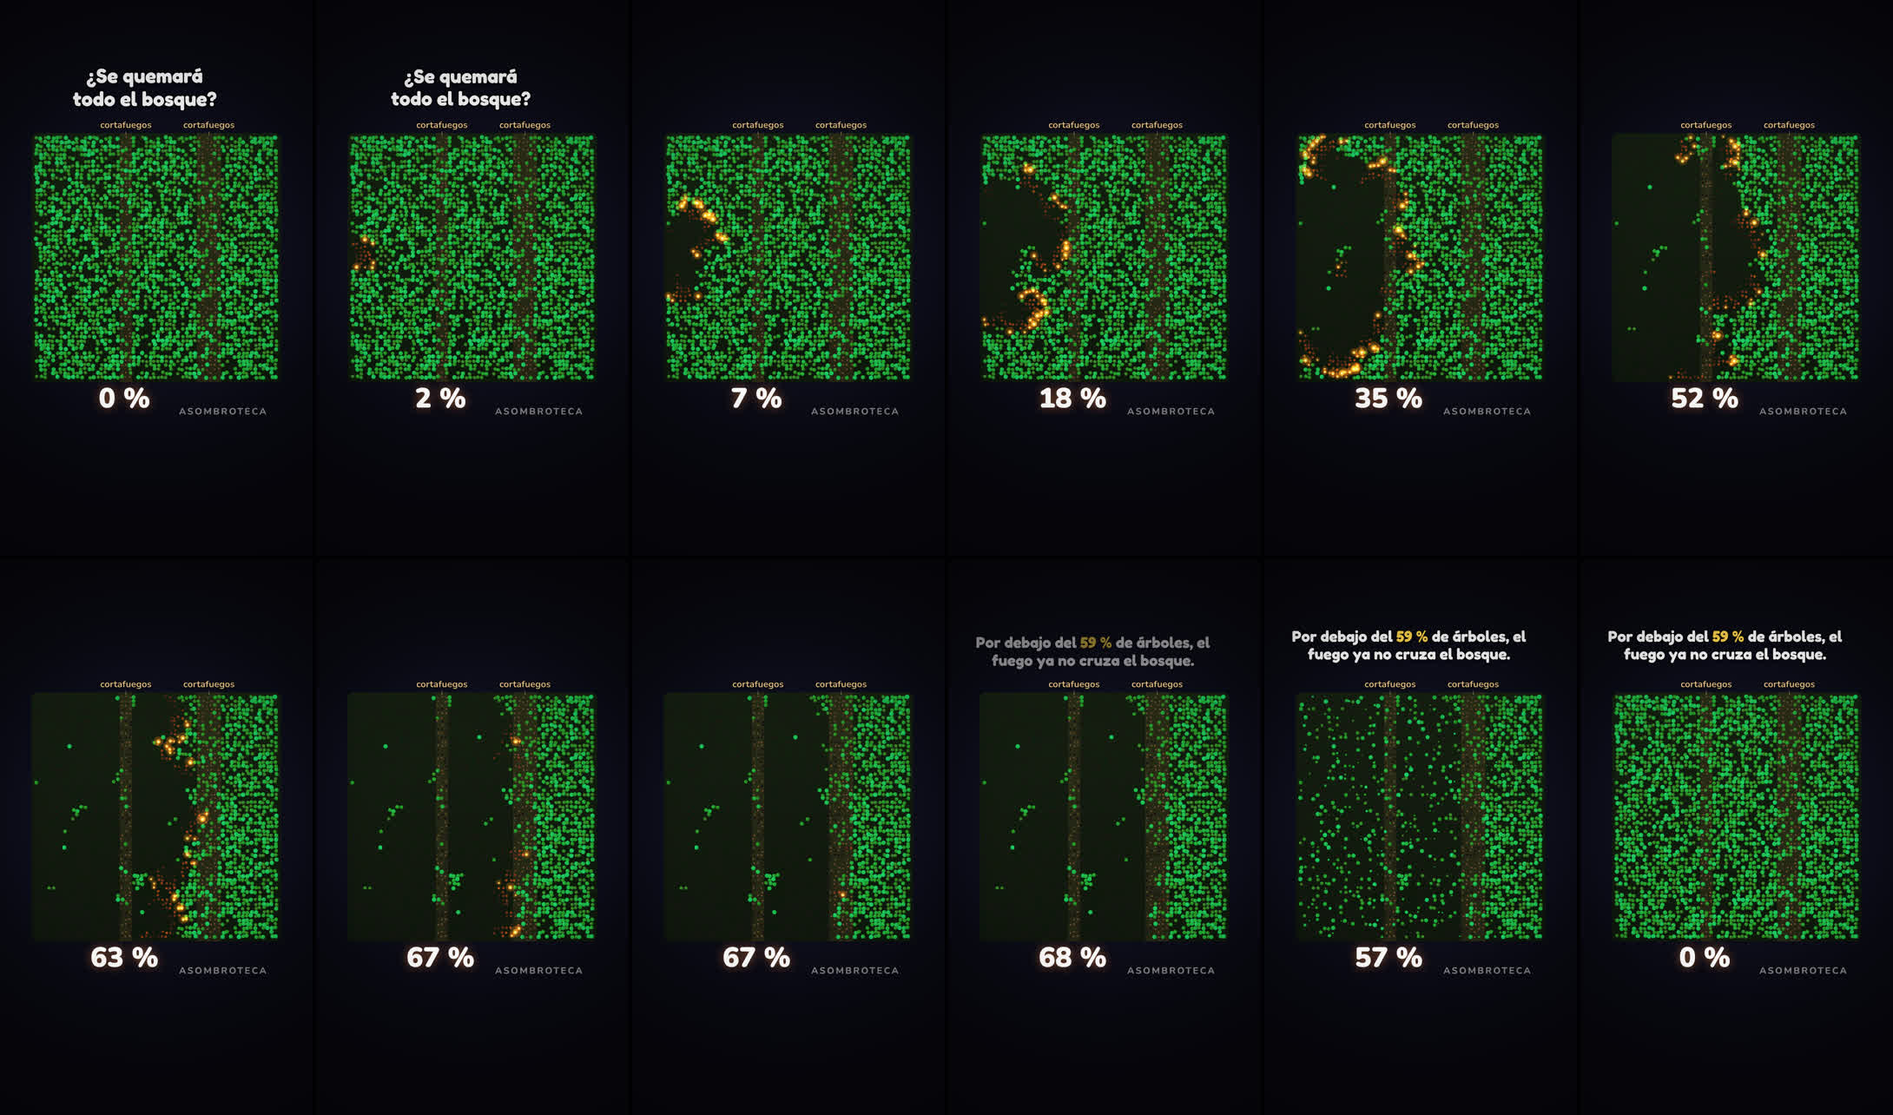
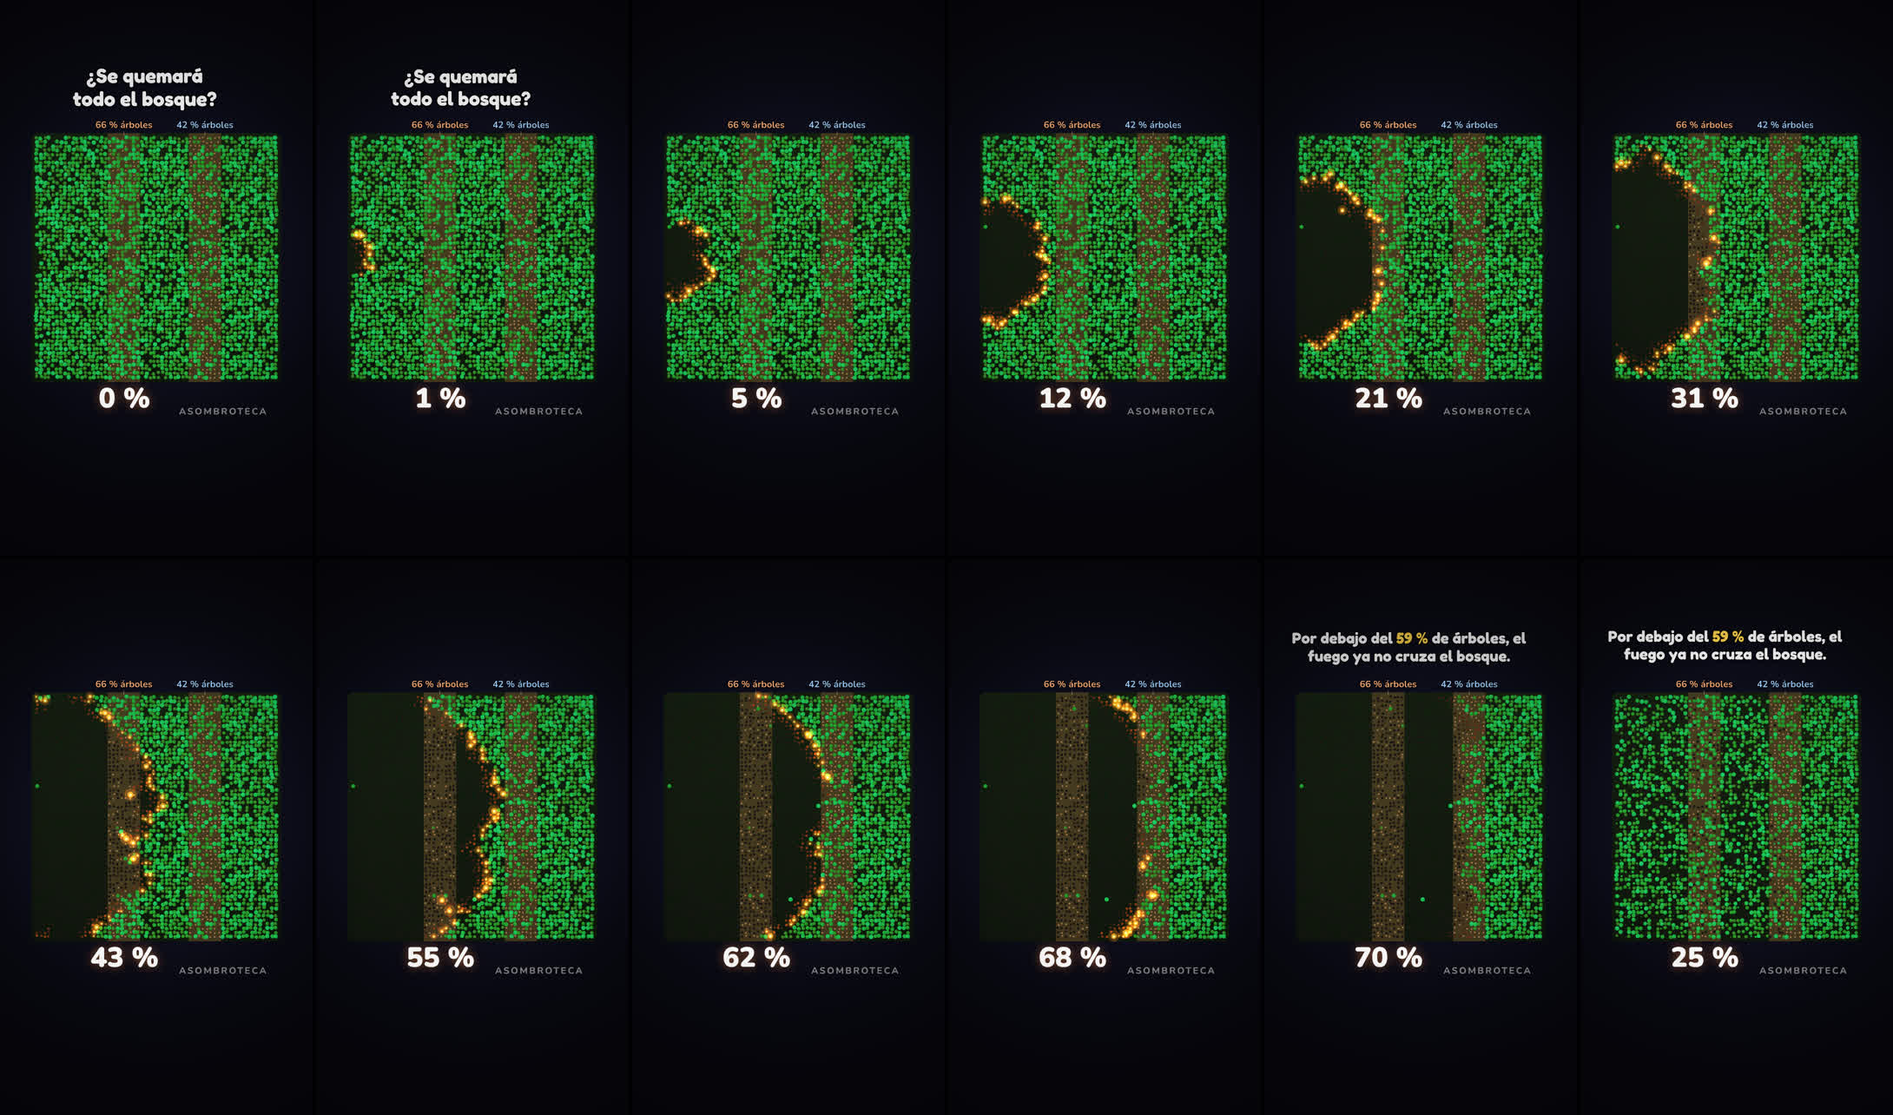
SIN_VOZ 2.2 (en curso): péndulos en 3D (pendulum wave clásico), bosque con cortafuegos de 66 % y 42 % y sin tiempo muerto, π vuelve a «?» en el empalme
Claude-Session: https://claude.ai/code/session_01KohciLZeBRd7rwhuESxzdC

diff --git a/PLANTILLA_ASOMBROTECA_SIN_VOZ/ejemplos/SIM_PENDULOS_REEL/04_CODIGO/js/episodio.js b/PLANTILLA_ASOMBROTECA_SIN_VOZ/ejemplos/SIM_PENDULOS_REEL/04_CODIGO/js/episodio.js
@@ -1,44 +1,71 @@
 // =====================================================================================================
 // episodio.js — «¿Volverán a alinearse?» · FORMATO: PÉNDULOS · Plantilla Asombroteca SIN_VOZ 2.2
-// Onda de péndulos (Berg 1991): 15 péndulos cuelgan de una barra fija sostenida por dos postes. En γ = 34 s el péndulo n completa
-// K + n oscilaciones (T_n = γ / (K + n), L_n = g·(T_n / 2π)²), así que se desfasan —serpiente, ondas, caos aparente— y a los 34 s
-// vuelven a estar alineados. A la derecha, el número de oscilaciones de cada uno. Sonido: cada paso por la vertical suena con una nota
-// según el péndulo (en la realineación, todas a la vez: un acorde).
+// Onda de péndulos clásica (Berg 1991): 15 péndulos cuelgan lado a lado de una barra horizontal, cada uno de su propio par de anclajes
+// (suspensión en V: solo oscilan perpendiculares a la barra). En γ = 34 s el péndulo n completa K + n oscilaciones
+// (T_n = γ / (K + n), L_n = g·(T_n / 2π)²): se desfasan —serpiente, ondas, caos aparente— y a los 34 s vuelven a alinearse.
+// Vista 3D en perspectiva, un poco desde arriba (cámara fija), con sombras sobre la base. Solo el contador de segundos.
+// Sonido: cada paso por la vertical suena con una nota según el péndulo (en la realineación, un acorde).
 // =====================================================================================================
 (function () {
  const R = window.REEL, PL = window.PLANTILLA, P = PL.P;
  const { TL, cl, sm, E, lerp, win, TAU } = R, D = TL.dur;
 
  // ---------- 1 · SIMULACIÓN ----------
- const S = SIM.pendulos({ n: 15, gamma: TL.param.gamma ?? 34, K: TL.param.K ?? 14, theta0: 0.33, extra: 4 });
- const PIV = { x: 500, y: 420 }, NB = S.n, PX = 640 / S.L[0];   // escala: el más largo mide 640 px
- const ROT = []; { let yl = -1e9; for (let k = 0; k < NB; k++) { const y = S.L[k] * PX; ROT[k] = Math.abs(yl - y) >= 36; if (ROT[k]) yl = y; } } // rótulos sin encimarse
+ const TH0 = 0.36;
+ const S = SIM.pendulos({ n: 15, gamma: TL.param.gamma ?? 34, K: TL.param.K ?? 36, theta0: TH0, extra: 4 });
+ const NB = S.n, ZV = 0.89 / S.L[0], LV = (k) => S.L[k] * ZV, L0 = LV(0);   // escala visual (la física, T y L, no cambia)
 
+ // ---------- 2 · ESCENA 3D (metros) ----------
+ // eje X: a lo largo de la barra (péndulo k) · eje Z: dirección de oscilación · eje Y: arriba. La barra está en Y = 0.
+ const SP = 0.085, XK = (k) => (k - (NB - 1) / 2) * SP, BH = 0.028;          // separación entre péndulos y media abertura de la V
+ const YB = -(L0 + 0.1), BX = XK(0) - 0.12, BX1 = XK(NB - 1) + 0.12, BZ = 0.4;  // base: tabla bajo los péndulos (los postes se apoyan en ella)
+ const CAM = { yaw: -0.55, pitch: 0.55, d: 3.2, F: 1680, cx: 532, cy: 765, c: [0, -0.5, 0] };
+ const ca = Math.cos(CAM.yaw), sa = Math.sin(CAM.yaw), cp = Math.cos(CAM.pitch), sp = Math.sin(CAM.pitch);
+ const pr = (x, y, z) => { x -= CAM.c[0]; y -= CAM.c[1]; z -= CAM.c[2];
+  const x1 = x * ca + z * sa, z1 = -x * sa + z * ca, y2 = y * cp + z1 * sp, z2 = z1 * cp - y * sp, s = CAM.F / (CAM.d + z2);
+  return [CAM.cx + x1 * s, CAM.cy - y2 * s, s, z2]; };
  const COL = Array.from({ length: NB }, (_, k) => `hsl(${(190 + k * 22) % 360},95%,62%)`);
- const bob = (k, t) => { const L = S.L[k] * PX, th = S.theta(k, t); return [PIV.x + L * Math.sin(th), PIV.y + L * Math.cos(th)]; };
+ const bob3 = (k, t) => { const th = S.theta(k, t), L = LV(k); return [XK(k), -L * Math.cos(th), L * Math.sin(th)]; };
+ window.PEND_INFO = { L: S.L, T: S.T, esquinas: [[BX, 0, 0], [BX1, 0, 0], [BX, YB, -BZ], [BX1, YB, -BZ], [BX, YB, BZ], [BX1, YB, BZ]].map((p) => pr(...p).slice(0, 2).map(Math.round)) };
 
- // ---------- 2 · DIBUJO ----------
+ const poly = (ctx, pts) => { ctx.beginPath(); pts.forEach(([x, y, z], i) => { const [a, b] = pr(x, y, z); if (i) ctx.lineTo(a, b); else ctx.moveTo(a, b); }); ctx.closePath(); };
+ const line = (ctx, p, q) => { const [a, b] = pr(...p), [c, d] = pr(...q); ctx.moveTo(a, b); ctx.lineTo(c, d); };
+
+ // ---------- 3 · DIBUJO ----------
  function draw(ctx, t) {
-  ctx.save();
-  // estructura fija: barra superior sostenida por dos postes que llegan al suelo (los hilos cuelgan de ella)
-  const base = 1160; ctx.strokeStyle = 'rgba(200,210,235,0.5)'; ctx.lineWidth = 6; ctx.lineCap = 'round'; ctx.beginPath(); ctx.moveTo(170, PIV.y); ctx.lineTo(830, PIV.y); ctx.moveTo(190, PIV.y); ctx.lineTo(190, base); ctx.moveTo(810, PIV.y); ctx.lineTo(810, base); ctx.moveTo(140, base); ctx.lineTo(860, base); ctx.stroke(); ctx.fillStyle = 'rgba(200,210,235,0.12)'; ctx.fillRect(140, base, 720, 10);
-  ctx.fillStyle = 'rgba(200,210,235,0.7)'; ctx.beginPath(); ctx.arc(PIV.x, PIV.y, 9, 0, TAU); ctx.fill();
-  // estelas suaves (0,25 s) y péndulos
-  for (let k = NB - 1; k >= 0; k--) { const c = COL[k];
-   ctx.strokeStyle = c; for (let q = 1; q <= 6; q++) { const [x, y] = bob(k, t - q * 0.04); ctx.globalAlpha = 0.12 * (1 - q / 7); ctx.fillStyle = c; ctx.beginPath(); ctx.arc(x, y, 15, 0, TAU); ctx.fill(); }
-   ctx.globalAlpha = 1; const [x, y] = bob(k, t); ctx.strokeStyle = 'rgba(230,235,255,0.35)'; ctx.lineWidth = 1.5; ctx.beginPath(); ctx.moveTo(PIV.x, PIV.y); ctx.lineTo(x, y); ctx.stroke();
-   const g = ctx.createRadialGradient(x - 5, y - 5, 2, x, y, 17); g.addColorStop(0, '#ffffff'); g.addColorStop(0.35, c); g.addColorStop(1, c); ctx.fillStyle = g; ctx.beginPath(); ctx.arc(x, y, 16, 0, TAU); ctx.fill();
-   // oscilaciones completas de cada péndulo, a la derecha de su altura de reposo
-   if (ROT[k]) R.chico(ctx, String(S.oscilaciones(k, t)), 905, PIV.y + S.L[k] * PX + 11, { px: 32, col: c, kind: 'eje', align: 'right' }); }
-  // al realinearse, un destello sobre la línea vertical
-  const al = Math.exp(-Math.pow((t - S.gamma) / 0.35, 2)); if (al > 0.02) { ctx.globalAlpha = al; ctx.strokeStyle = '#ffd54a'; ctx.lineWidth = 4; ctx.setLineDash([10, 10]); ctx.beginPath(); ctx.moveTo(PIV.x + S.L[NB - 1] * PX * Math.sin(0.33), PIV.y + S.L[NB - 1] * PX * 0.9); ctx.lineTo(PIV.x + S.L[0] * PX * Math.sin(0.33), PIV.y + S.L[0] * PX * 1.02); ctx.stroke(); ctx.setLineDash([]); P.glow(ctx, 540, 860, 400, '255,213,74', 0.2 * al); }
+  ctx.save(); ctx.lineCap = 'round'; ctx.lineJoin = 'round';
+  // base de madera oscura (tabla con canto) y sombras de las bolas sobre ella (luz cenital)
+  ctx.fillStyle = '#1a1f33'; poly(ctx, [[BX, YB, -BZ], [BX1, YB, -BZ], [BX1, YB, BZ], [BX, YB, BZ]]); ctx.fill();
+  ctx.strokeStyle = 'rgba(170,185,230,0.35)'; ctx.lineWidth = 2; ctx.stroke();
+  ctx.fillStyle = '#121626'; poly(ctx, [[BX, YB, BZ], [BX1, YB, BZ], [BX1, YB - 0.04, BZ], [BX, YB - 0.04, BZ]]); ctx.fill();
+  ctx.fillStyle = '#0f1322'; poly(ctx, [[BX, YB, -BZ], [BX, YB, BZ], [BX, YB - 0.04, BZ], [BX, YB - 0.04, -BZ]]); ctx.fill();
+  for (let k = 0; k < NB; k++) { const [x, , z] = bob3(k, t), [a, b, s] = pr(x, YB, z); ctx.fillStyle = 'rgba(0,0,0,0.45)'; ctx.beginPath(); ctx.ellipse(a, b, 0.038 * s, 0.017 * s, 0, 0, TAU); ctx.fill(); }
+  // marco: dos postes que se apoyan en la base y la barra horizontal arriba
+  ctx.strokeStyle = 'rgba(205,215,240,0.75)'; ctx.lineWidth = 7; ctx.beginPath(); line(ctx, [BX, YB, 0], [BX, 0.02, 0]); line(ctx, [BX1, YB, 0], [BX1, 0.02, 0]); ctx.stroke();
+  ctx.lineWidth = 9; ctx.beginPath(); line(ctx, [BX, 0.02, 0], [BX1, 0.02, 0]); ctx.stroke();
+  // al realinearse, un destello a lo largo de la fila
+  const al = Math.exp(-Math.pow((t - S.gamma) / 0.4, 2));
+  // péndulos, de atrás hacia delante (orden por profundidad)
+  const ord = Array.from({ length: NB }, (_, k) => k).map((k) => [k, pr(...bob3(k, t))[3]]).sort((a, b) => b[1] - a[1]);
+  for (const [k] of ord) { const c = COL[k], p = bob3(k, t), [bx, by, s] = pr(...p);
+   // estela corta
+   for (let q = 1; q <= 5; q++) { const [ex, ey, es] = pr(...bob3(k, t - q * 0.035)); ctx.globalAlpha = 0.13 * (1 - q / 6); ctx.fillStyle = c; ctx.beginPath(); ctx.arc(ex, ey, 0.034 * es, 0, TAU); ctx.fill(); }
+   ctx.globalAlpha = 1;
+   // hilos en V desde sus dos anclajes en la barra
+   ctx.strokeStyle = 'rgba(230,235,255,0.45)'; ctx.lineWidth = 1.4; ctx.beginPath(); line(ctx, [XK(k) - BH, 0, 0], p); line(ctx, [XK(k) + BH, 0, 0], p); ctx.stroke();
+   ctx.fillStyle = 'rgba(220,228,250,0.9)'; for (const dx of [-BH, BH]) { const [a, b] = pr(XK(k) + dx, 0, 0); ctx.beginPath(); ctx.arc(a, b, 3, 0, TAU); ctx.fill(); }
+   // bola
+   const r = 0.034 * s, g = ctx.createRadialGradient(bx - r * 0.35, by - r * 0.35, r * 0.1, bx, by, r); g.addColorStop(0, '#ffffff'); g.addColorStop(0.35, c); g.addColorStop(1, c);
+   if (al > 0.02) P.glow(ctx, bx, by, r * 3.2, '255,213,74', 0.5 * al);
+   ctx.fillStyle = g; ctx.beginPath(); ctx.arc(bx, by, r, 0, TAU); ctx.fill(); }
+  if (al > 0.02) { ctx.globalAlpha = al * 0.8; ctx.strokeStyle = '#ffd54a'; ctx.lineWidth = 3; ctx.setLineDash([10, 10]); ctx.beginPath(); for (let k = 0; k < NB; k++) { const [a, b] = pr(...bob3(k, S.gamma)); if (k) ctx.lineTo(a, b); else ctx.moveTo(a, b); } ctx.stroke(); ctx.setLineDash([]); }
   ctx.restore();
-  R.contador(ctx, t, (Math.round(t * 10) / 10).toFixed(1).replace('.', ','), { x: 470, y: 1300, px: 104, sufijo: ' s', glow: '120,200,255' });
+  R.contador(ctx, t, (Math.round(t * 10) / 10).toFixed(1).replace('.', ','), { x: 420, y: 1345, px: 100, sufijo: ' s', glow: '120,200,255' });
   R.pregunta(ctx, t, { y: 300, px: 72 }); R.frase(ctx, t, { y: 300, px: 58 });
  }
 
- // ---------- 3 · SONIDO: cada paso por la vertical ----------
- const EVP = S.cruces.filter((c) => c.t < D).map((c) => ({ t: c.t, p: 5 + c.n * 1, v: 0.55, pan: c.sentido * 0.3 }));
+ // ---------- 4 · SONIDO: cada paso por la vertical ----------
+ const EVP = S.cruces.filter((c) => c.t < D).map((c) => ({ t: c.t, p: 5 + c.n * 1, v: 0.55, pan: (c.n / (NB - 1) - 0.5) * 0.8 }));
  function sound(k) { R.asmr(k, EVP, { voz: 'cristal', maxBin: 3, bin: 1 / 50, dens: 30, gain: 0.8 }); R.asmr(k, [{ t: S.gamma, p: 15, v: 0.9 }, { t: S.gamma, p: 17, v: 0.7 }, { t: S.gamma, p: 19, v: 0.7 }], { voz: 'campana', maxBin: 3, gain: 0.8 }); }
 
  const EP = R.make({ draw, sound, eventos: () => EVP.map((e) => e.t).concat([S.gamma]) });

diff --git a/PLANTILLA_ASOMBROTECA_SIN_VOZ/ejemplos/SIM_INCENDIO_REEL/04_CODIGO/js/episodio.js b/PLANTILLA_ASOMBROTECA_SIN_VOZ/ejemplos/SIM_INCENDIO_REEL/04_CODIGO/js/episodio.js
@@ -1,8 +1,8 @@
 // =====================================================================================================
 // episodio.js — «¿Se quemará todo el bosque?» · FORMATO: INCENDIO · Plantilla Asombroteca SIN_VOZ 2.2
 // Bosque visto desde arriba (60 × 60 árboles). El fuego pasa de un árbol a sus 4 vecinos con un retraso al azar (SIM.incendio:
-// percolación de sitios, precalculada con H.rng). Dos franjas de cortafuegos (árboles cortados → tocones) dejan solo ~32 % de árboles,
-// por debajo del umbral de percolación (59 %): la estrecha puede dejar pasar el fuego; la ancha lo detiene. Al final el bosque rebrota.
+// percolación de sitios, precalculada con H.rng). Dos franjas de cortafuegos iguales (árboles cortados → tocones): la primera deja ~66 % de
+// árboles, por encima del umbral de percolación (59 %), y el fuego la cruza; la segunda deja ~42 %, por debajo, y lo detiene. Al final rebrota.
 // Sonido: chasquido en cada árbol que prende, rugido cuyo volumen sigue a los árboles que arden, siseo al apagarse, gotas al rebrotar.
 // =====================================================================================================
 (function () {
@@ -10,14 +10,21 @@
  const { TL, cl, sm, E, lerp, win, TAU } = R, D = TL.dur;
 
  // ---------- 1 · SIMULACIÓN ----------
- const CO = 60, RO = 60, CS = 14, X0 = 120, Y0 = 470, DEN = TL.param.densidad ?? 0.7, CORTE = TL.param.corte ?? 0.55;
- const F1 = [21, 23], F2 = [40, 45];   // franjas de cortafuegos (columnas)
+ const CO = 60, RO = 60, CS = 14, X0 = 120, Y0 = 470, DEN = TL.param.densidad ?? 0.86, Q1 = TL.param.queda1 ?? 0.66, Q2 = TL.param.queda2 ?? 0.44;
+ const F1 = [18, 25], F2 = [38, 45];   // franjas de cortafuegos (columnas), las dos de 8 columnas
  const enFranja = (c) => (c >= F1[0] && c <= F1[1]) || (c >= F2[0] && c <= F2[1]);
- const S = SIM.incendio({ cols: CO, rows: RO, densidad: () => DEN, corte: (c, r, rng) => enFranja(c) && rng() < CORTE, focos: [27, 28, 29, 30, 31, 32].map((r) => [0, r]), dMin: 0.14, dMax: 0.34, arde: 1.2, seed: TL.semilla });
- const T_FIN = S.escala((TL.param.tFuego ?? 33.5) / S.tFin), T_APAGA = T_FIN + S.arde, T_BROTE = D - 3.2;
+ const S = SIM.incendio({ cols: CO, rows: RO, densidad: () => DEN, corte: (c, r, rng) => (c >= F1[0] && c <= F1[1]) ? rng() < 1 - Q1 / DEN : (c >= F2[0] && c <= F2[1]) ? rng() < 1 - Q2 / DEN : false, focos: [27, 28, 29, 30, 31, 32].map((r) => [0, r]), dMin: 0.14, dMax: 0.34, arde: 1.2, seed: TL.semilla });
+ // sin tiempo muerto: del 95 al 98 % de árboles el fuego va 2,5 veces más rápido y el último 2 %, 8 veces (remapeo monótono:
+ // el orden de ignición no cambia) y, en cuanto se apaga el último, entra la frase
+ { const n = S.orden.length, tq = (f) => S.tIgn[S.orden[Math.floor(f * (n - 1))]], t95 = tq(0.95), t98 = tq(0.98);
+   const w = (t) => (t <= t95 ? t : t <= t98 ? t95 + (t - t95) * 0.4 : t95 + (t98 - t95) * 0.4 + (t - t98) * 0.12);
+   for (const i of S.orden) S.tIgn[i] = w(S.tIgn[i]); S.tFin = S.tIgn[S.orden[n - 1]]; }
+ const T_FIN = S.escala((TL.tFrase - S.arde - 0.4) / S.tFin), T_APAGA = T_FIN + S.arde, T_BROTE = D - 3.2;
+ const densF = (F) => { let a = 0; for (let r = 0; r < RO; r++) for (let c = F[0]; c <= F[1]; c++) if (S.arbol[r * CO + c] === 1) a++; return Math.round(100 * a / (RO * (F[1] - F[0] + 1))); };
+ const DF = [densF(F1), densF(F2)];   // % real de árboles que quedan en cada cortafuegos (sale en su etiqueta)
  const N_ARB = S.arbol.reduce((a, v) => a + (v === 1 ? 1 : 0), 0), IGN = S.orden.map((i) => S.tIgn[i]);
  const cuantos = (t) => { let lo = 0, hi = IGN.length; while (lo < hi) { const m = (lo + hi) >> 1; if (IGN[m] <= t) lo = m + 1; else hi = m; } return lo; };
- const maxCol = S.orden.reduce((m, i) => Math.max(m, i % CO), 0); window.INCENDIO_INFO = { maxCol, quemados: S.orden.length, N_ARB, T_FIN, cruza1: maxCol > F1[1], cruza2: maxCol > F2[1] };
+ const maxCol = S.orden.reduce((m, i) => Math.max(m, i % CO), 0); window.INCENDIO_INFO = { maxCol, quemados: S.orden.length, N_ARB, T_FIN, cruza1: maxCol > F1[1], cruza2: maxCol > F2[1], DF };
  const RG = H.rng(9), TONO = Float32Array.from({ length: CO * RO }, () => RG()), BROTE = Float32Array.from({ length: CO * RO }, () => RG());
  const JX = Float32Array.from({ length: CO * RO }, () => (RG() - 0.5) * 6), JY = Float32Array.from({ length: CO * RO }, () => (RG() - 0.5) * 6);   // copas algo irregulares (aspecto natural)
  const pos = (i) => [X0 + (i % CO + 0.5) * CS + JX[i], Y0 + (((i / CO) | 0) + 0.5) * CS + JY[i]];
@@ -27,11 +34,11 @@
   // suelo del bosque (los árboles se apoyan en él: vista cenital)
   ctx.save(); const g = ctx.createLinearGradient(0, Y0, 0, Y0 + RO * CS); g.addColorStop(0, '#13200f'); g.addColorStop(1, '#0d170b'); ctx.fillStyle = g; ctx.beginPath(); ctx.roundRect(X0 - 10, Y0 - 10, CO * CS + 20, RO * CS + 20, 18); ctx.fill();
   // franjas de cortafuegos (tierra desnuda)
-  ctx.fillStyle = 'rgba(120,90,50,0.22)'; for (const [a, b] of [F1, F2]) ctx.fillRect(X0 + a * CS, Y0 - 10, (b - a + 1) * CS, RO * CS + 20);
+  ctx.fillStyle = 'rgba(140,100,55,0.42)'; for (const [a, b] of [F1, F2]) ctx.fillRect(X0 + a * CS, Y0 - 10, (b - a + 1) * CS, RO * CS + 20);
   const brote = (i) => t > T_BROTE + BROTE[i] * 1.6;   // al final el bosque rebrota (empalme con el inicio)
   ctx.globalCompositeOperation = 'source-over';
   for (let i = 0; i < CO * RO; i++) { const a = S.arbol[i]; if (!a) continue; const [x, y] = pos(i);
-   if (a === 2) { ctx.fillStyle = '#7a5a36'; ctx.beginPath(); ctx.arc(x, y, 3.2, 0, TAU); ctx.fill(); ctx.strokeStyle = 'rgba(40,25,12,0.8)'; ctx.lineWidth = 1; ctx.stroke(); continue; }   // tocón
+   if (a === 2) { ctx.fillStyle = '#a7804f'; ctx.beginPath(); ctx.arc(x, y, 3.6, 0, TAU); ctx.fill(); ctx.strokeStyle = 'rgba(40,25,12,0.8)'; ctx.lineWidth = 1; ctx.stroke(); continue; }   // tocón
    const ti = S.tIgn[i], q = t - ti;
    if (q < 0 || brote(i)) { const s = brote(i) ? E.out(cl((t - T_BROTE - BROTE[i] * 1.6) / 0.4)) : 1; ctx.fillStyle = `hsl(${105 + TONO[i] * 40},${55 + TONO[i] * 25}%,${30 + TONO[i] * 14}%)`; ctx.beginPath(); ctx.arc(x, y, (5.6 + TONO[i] * 2.2) * s, 0, TAU); ctx.fill(); ctx.fillStyle = 'rgba(190,255,150,0.18)'; ctx.beginPath(); ctx.arc(x - 1.8 * s, y - 1.8 * s, 2.4 * s, 0, TAU); ctx.fill(); continue; }
    if (q < S.arde) continue;   // los que arden se dibujan después (capa de luz)
@@ -41,8 +48,8 @@
   const n0 = cuantos(t - S.arde), n1 = cuantos(t); for (let k = n0; k < n1; k++) { const i = S.orden[k]; if (brote(i)) continue; const [x, y] = pos(i), q = (t - S.tIgn[i]) / S.arde, fl = 0.75 + 0.25 * Math.sin(t * 31 + i), v = Math.sin(Math.PI * Math.min(1, q * 1.4));
    ctx.fillStyle = `rgba(255,${70 + 50 * fl},10,${0.28 * v})`; ctx.beginPath(); ctx.arc(x, y - 3, 22 * v * fl, 0, TAU); ctx.fill(); ctx.fillStyle = `rgba(255,${120 + 60 * fl},30,${0.55 * v})`; ctx.beginPath(); ctx.arc(x, y - 2, 11 * v * fl, 0, TAU); ctx.fill(); ctx.fillStyle = `rgba(255,${225 + 30 * fl},${150},${0.95 * v})`; ctx.beginPath(); ctx.arc(x, y - 1, 5 * v * fl, 0, TAU); ctx.fill(); }
   ctx.globalCompositeOperation = 'source-over'; ctx.restore();
-  // etiquetas: las dos franjas de cortafuegos
-  for (const [a, b] of [F1, F2]) { const xc = X0 + (a + b + 1) / 2 * CS; R.chico(ctx, 'cortafuegos', xc, Y0 - 36, { px: 32, col: '#e9c38a', kind: 'etiqueta' }); ctx.save(); ctx.strokeStyle = 'rgba(233,195,138,0.6)'; ctx.lineWidth = 2; ctx.beginPath(); ctx.moveTo(xc, Y0 - 16); ctx.lineTo(xc, Y0 - 2); ctx.stroke(); ctx.restore(); }
+  // etiquetas: % de árboles que quedan en cada cortafuegos
+  [F1, F2].forEach(([a, b], q) => { const xc = X0 + (a + b + 1) / 2 * CS; R.chico(ctx, `${DF[q]} % árboles`, xc, Y0 - 36, { px: 32, col: q ? '#9fd0ff' : '#ffb27a', kind: 'etiqueta' }); ctx.save(); ctx.strokeStyle = 'rgba(233,195,138,0.6)'; ctx.lineWidth = 2; ctx.beginPath(); ctx.moveTo(xc, Y0 - 16); ctx.lineTo(xc, Y0 - 2); ctx.stroke(); ctx.restore(); });
   // contador: % del bosque quemado (vuelve a 0 al rebrotar)
   const qn = cuantos(t), reb = sm(T_BROTE, T_BROTE + 2.0, t), pct = Math.round(100 * qn / N_ARB * (1 - reb));
   R.contador(ctx, t, pct, { x: 430, y: 1385, px: 96, sufijo: ' %', glow: '255,140,60', bump: 0 });

diff --git a/PLANTILLA_ASOMBROTECA_SIN_VOZ/ejemplos/SIM_INCENDIO_REEL/04_CODIGO/js/tiempos.js b/PLANTILLA_ASOMBROTECA_SIN_VOZ/ejemplos/SIM_INCENDIO_REEL/04_CODIGO/js/tiempos.js
@@ -2,15 +2,15 @@
 window.TIEMPOS = {
  "duracion": 40.0,
  "musica": "no",
- "semilla": 51,
+ "semilla": 244,
  "pregunta": "¿Se quemará / todo el bosque?",
  "tPregunta": 3.6,
  "frase": "Por debajo del *59 %* de árboles, el fuego ya no cruza el bosque.",
  "tFrase": 35.4,
- "fuente": "Umbral de percolación de sitios en la red cuadrada p_c = 0,592746 (Newman y Ziff, 2000, Physical Review Letters 85: 4104); Stauffer y Aharony (1994), Introduction to Percolation Theory, Taylor & Francis",
+ "fuente": "Umbral de percolación de sitios en la red cuadrada p_c = 0,59274621 (Newman y Ziff, 2000, Physical Review Letters 85: 4104); Stauffer y Aharony (1994), Introduction to Percolation Theory, Taylor & Francis",
  "param": {
-  "densidad": 0.7,
-  "corte": 0.55,
-  "tFuego": 33.5
+  "densidad": 0.86,
+  "queda1": 0.66,
+  "queda2": 0.44
  }
 };

diff --git a/PLANTILLA_ASOMBROTECA_SIN_VOZ/ejemplos/SIM_MONTECARLO_REEL/04_CODIGO/js/episodio.js b/PLANTILLA_ASOMBROTECA_SIN_VOZ/ejemplos/SIM_MONTECARLO_REEL/04_CODIGO/js/episodio.js
@@ -41,7 +41,8 @@
   R.chico(ctx, `dentro ${P.fmtN(den)} · total ${P.fmtN(k)}`, 80, 1382, { px: 32, font: 'IBM Plex Mono', fw: 600, align: 'left', col: 'rgba(220,225,255,0.8)', kind: 'formula', alpha: a });
   // contador: la estimación (las cifras que ya coinciden con π se encienden)
   const v = k ? S.pi(k) : 0, s = fmt(v), ref = '3,1416'; let ok = 0; while (ok < s.length && s[ok] === ref[ok]) ok++;
-  R.contador(ctx, t, k ? s : '?', { x: 540, y: 1252, px: 112, glow: ok >= 4 ? '120,255,170' : '79,227,255' });
+  R.contador(ctx, t, k && seca < 0.8 ? s : '?', {   // al secarse la lluvia vuelve a «?», junto con la pregunta del empalme
+   x: 540, y: 1252, px: 112, glow: ok >= 4 ? '120,255,170' : '79,227,255' });
   R.pregunta(ctx, t, { y: 300, px: 70 }); R.frase(ctx, t, { y: 300, px: 58 });
  }
 

diff --git a/PLANTILLA_ASOMBROTECA_SIN_VOZ/ejemplos/SIM_PENDULOS_REEL/04_CODIGO/js/tiempos.js b/PLANTILLA_ASOMBROTECA_SIN_VOZ/ejemplos/SIM_PENDULOS_REEL/04_CODIGO/js/tiempos.js
@@ -10,6 +10,6 @@ window.TIEMPOS = {
  "fuente": "Periodo del péndulo T = 2π√(L/g) (Huygens, 1673, Horologium Oscillatorium); onda de péndulos: Berg, R. E. (1991), «Pendulum waves: A demonstration of wave motion using pendula», American Journal of Physics 59(2): 186-187",
  "param": {
   "gamma": 34.0,
-  "K": 14.0
+  "K": 36.0
  }
 };
